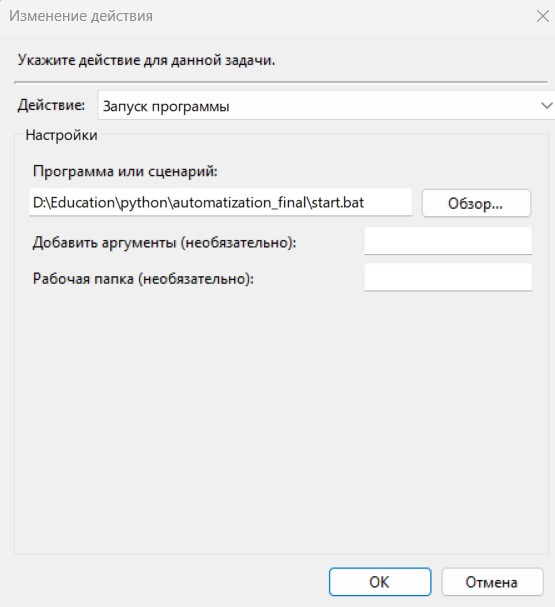
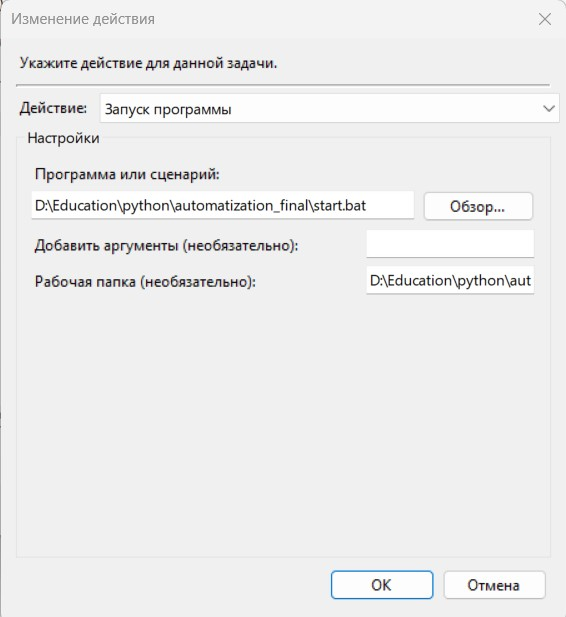
изменение действия для планировщика задач

diff --git a/readme.md b/readme.md
@@ -27,5 +27,5 @@
     - Откройте «Планировщик заданий»
     - Создайте задачу
     - В разделе «Триггеры» → укажите «Еженедельно», уберите воскресенье
-    - В разделе «Действия» укажите запуск файла start.bat
+    - В разделе «Действия» укажите запуск файла start.bat и указать рабочую папку
     - То же с load.bat, только в «Триггеры» → укажите «Ежедневно»
